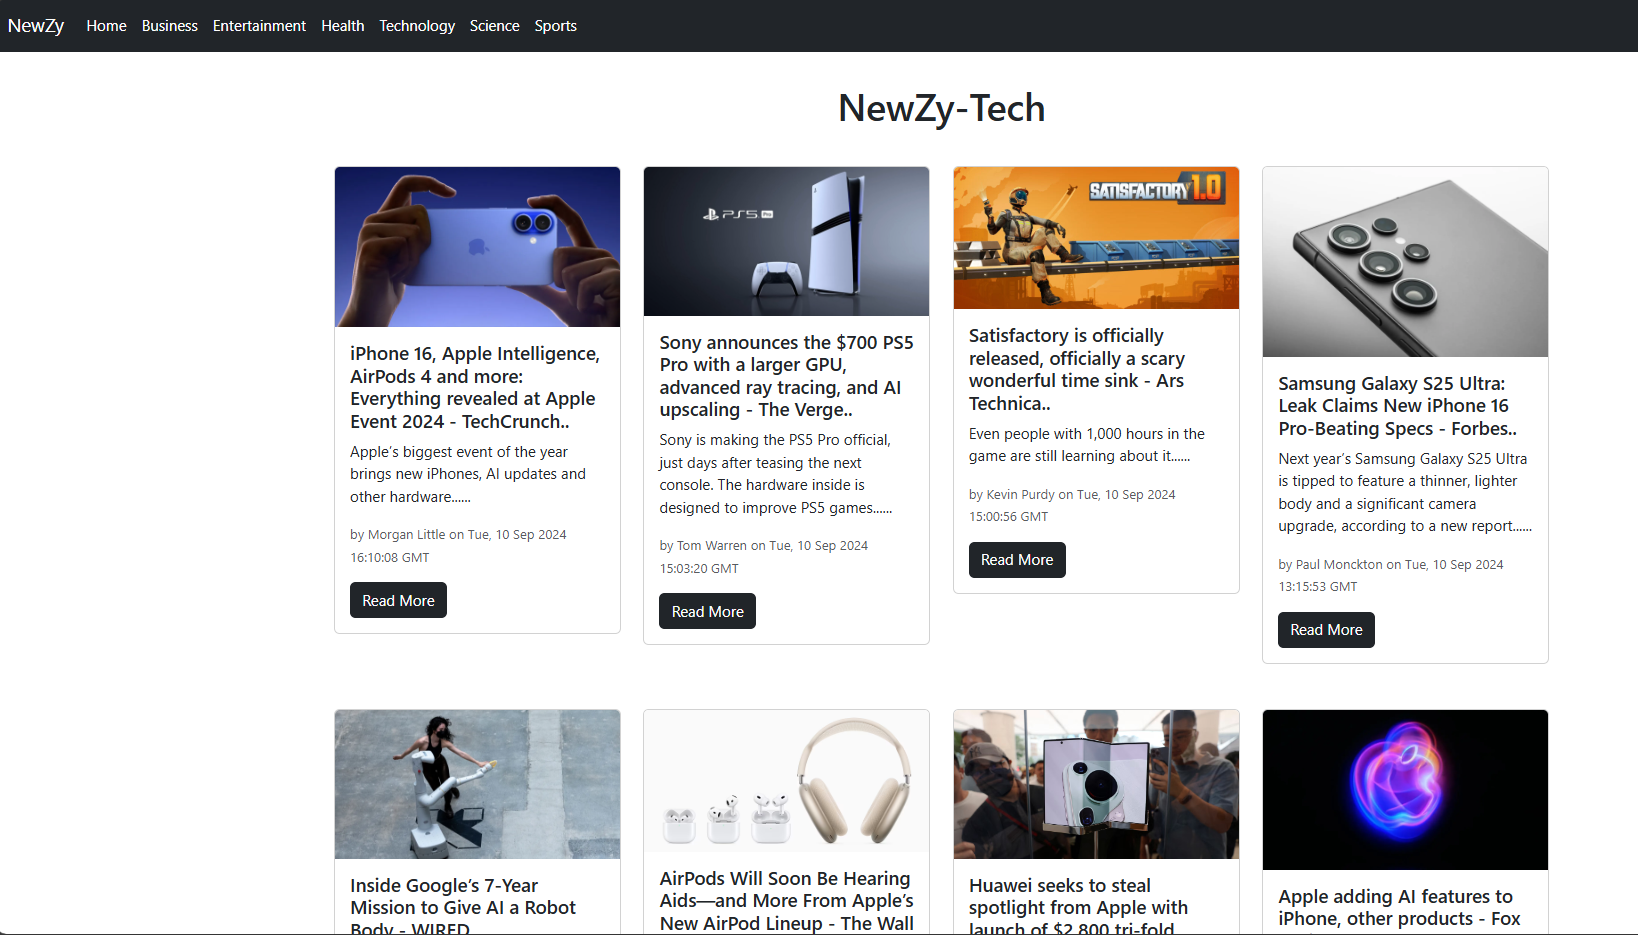
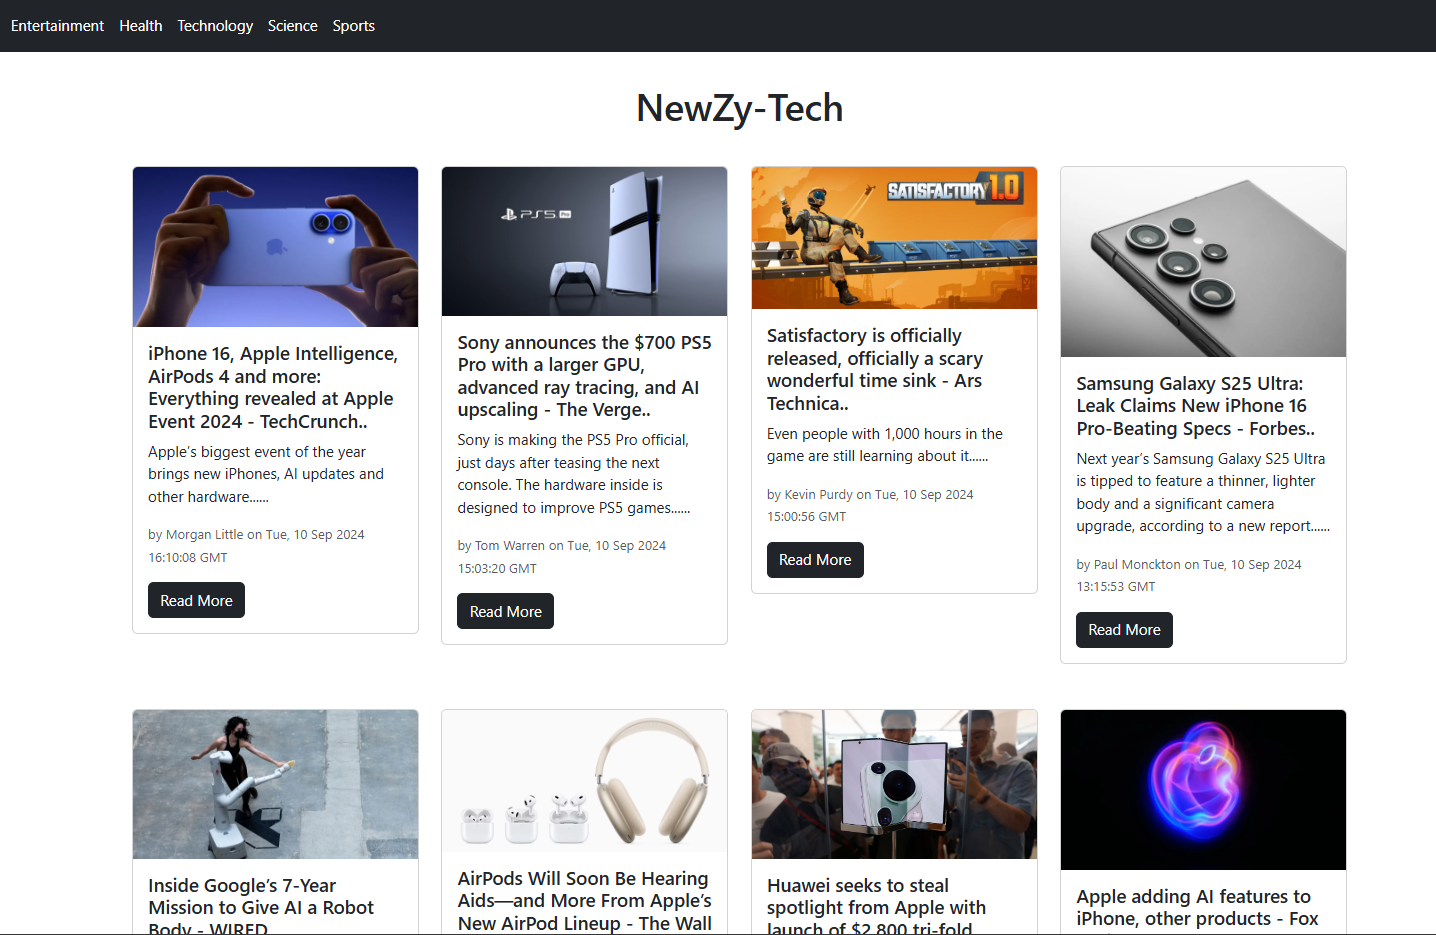
almost final commit

diff --git a/src/data/projectData.js b/src/data/projectData.js
@@ -1,0 +1,88 @@
+import { FaHtml5, FaCss3Alt, FaJsSquare, FaReact, FaNodeJs, FaGitAlt, FaDocker, FaJava , FaOauth} from 'react-icons/fa';
+import {
+    SiTypescript, SiRedux, SiTailwindcss, SiMongodb, SiPostgresql, SiNextdotjs, SiExpress, SiFramer, SiAndroidstudio,
+    SiPython, SiCplusplus, SiFirebase, SiReact, SiChakraui , SiAuth0 , SiRecoil , SiShadcnui
+} from 'react-icons/si';
+import { TbFileTypeXml } from "react-icons/tb";
+
+const react = (<FaReact color="#61DAFB" size={40} />)
+const node = (<FaNodeJs color="#339933" size={40} />);
+const express = (<SiExpress color="#ffffff" size={40} className="bg-black p-1 rounded" />);
+const mongo = <SiMongodb color="#47A248" size={40} /> 
+const typescript = <SiTypescript color="#3178C6" size={40} />
+const auth0 = (<SiAuth0 size={40} color="#EB5424" />)
+const shadcn = <SiShadcnui color="#8B5CF6" size={37} />
+const javaScript = <FaJsSquare color="#F7DF1E" size={40} />
+const recoil = <SiRecoil color="#ffffff" size={40} className="bg-black p-1 rounded" />
+const nextjs = <SiNextdotjs color="#ffffff" size={40} className="bg-black p-1 rounded" />
+const tailwind = <SiTailwindcss color="#38B2AC" size={40} />
+const framer = <SiFramer size={38} color='red'/>
+const css = <FaCss3Alt color="#1572B6" size={40} />
+const java = <FaJava color="#007396" size={40} />
+const androidStudio = <SiAndroidstudio color="#3DDC84" size={40} />
+const html = <FaHtml5 color="#E34F26" size={40} />
+const xml = <TbFileTypeXml size={40} color="#3DDC84" />
+
+export const projectsData = [
+    {
+      id: 1,
+      title: "Quick Bites",
+      description: "A full stack Food ordering platform , with proper authentication , restaurant page module for restaurant owners , and food ordering module for customers",
+      image: "/images/projects/quickbites.png",
+      tag: ["All", "Web"],
+      gitUrl: "https://github.com/AhsanShahzad5/Quick-Bites-Frontend",
+      previewUrl: "https://quick-bites-frontend-za1k.onrender.com/",
+      techStack:[typescript,react,shadcn,express,mongo,node]
+    },
+    {
+      id: 2,
+      title: "Social Link",
+      description: "A full stack social media website , having proper authetnication , posts and profiles features , with real time messaging features included",
+      image: "/images/projects/socialLink3.png",
+      tag: ["All", "Web"],
+      gitUrl: "https://github.com/AhsanShahzad5/Social-Link",
+      previewUrl: "https://social-link-iz2i.onrender.com/",
+     techStack:[javaScript,react,recoil,express,mongo,node]
+    
+    },
+    {
+      id: 3,
+      title: "Next-Js Developer Protfolio",
+      description: "My developer portfolio showing my projects , and expertise in various technologies",
+      image: "/images/projects/portfolio2.png",
+      tag: ["All", "Web"],
+      gitUrl: "https://github.com/AhsanShahzad5/my-portfolio-final",
+      previewUrl: "/",
+      techStack:[typescript,nextjs, tailwind , framer]
+    },
+    {
+      id: 4,
+      title: "Newzy",
+      description: "A News fetching website built using news API featuring news for tech , politics etc ",
+      image: "/images/projects/newzy.png",
+      tag: ["All", "Web"],
+      gitUrl: "https://github.com/AhsanShahzad5/Newzy",
+      previewUrl: "",
+      techStack:[html,javaScript,react,tailwind]
+    },
+    {
+      id: 5,
+      title: "NextJs Admin Dashboard + Blog",
+      description: "A full stack web app having combined power of Admin dashboard and Blogging websites",
+      image: "/images/projects/dashboard.png",
+      tag: ["All", "Web"],
+      gitUrl: "https://github.com/AhsanShahzad5/nextjs-simple-dashboard",
+      previewUrl: "/",
+      techStack:[javaScript,nextjs,tailwind,css]
+    },
+    {
+      id: 6,
+      title: "Android Fitness App",
+      description: "A basic fitness App built for android , having wokrout , diet and tracking modules",
+      image: "/images/projects/gym2.jpg",
+      tag: ["All", "Mobile"],
+      gitUrl: "https://github.com/AhsanShahzad5/MyFitness",
+      previewUrl: "/",
+      techStack:[java , androidStudio , css , xml]
+    },
+  ];

diff --git a/src/components/ProjectCard.jsx b/src/components/ProjectCard.jsx
@@ -1,35 +1,62 @@
-//previous prject card
-import React from "react";
+import React, { useState } from "react";
 import { CodeBracketIcon, EyeIcon } from "@heroicons/react/24/outline";
-import Link from "next/link";
 
-const ProjectCard = ({ imgUrl, title, description, gitUrl, previewUrl }) => {
+const ProjectCard = ({ imgUrl, title, description, gitUrl, previewUrl, techStack }) => {
+  const [showToast, setShowToast] = useState(false);
+
+  // Function to handle preview button click
+  const handlePreviewClick = () => {
+    if (!previewUrl || previewUrl === "/") {
+      // Show the toast and hide it after 3 seconds
+      setShowToast(true);
+      setTimeout(() => setShowToast(false), 2000);
+    } else {
+      // Open the preview URL in a new tab if available
+      window.open(previewUrl, "_blank");
+    }
+  };
+
   return (
-    <div>
+    <div className="relative">
+      {/* Toast Message */}
+      {showToast && (
+        <div className="absolute top-2 left-1/2 transform -translate-x-1/2 bg-white text-black px-4 py-2 rounded-md shadow-md z-10">
+          Not live yet!
+        </div>
+      )}
+
+      {/* Image background with overlay */}
       <div
-        className="h-52 md:h-72 rounded-t-xl relative group"
+        className="h-62 md:h-80 rounded-t-xl relative group"
         style={{ background: `url(${imgUrl})`, backgroundSize: "cover" }}
       >
-        <div className="overlay items-center justify-center absolute top-0 left-0 w-full h-full bg-[#181818] bg-opacity-0 hidden group-hover:flex group-hover:bg-opacity-80 transition-all duration-500 ">
+        <div className="overlay items-center justify-center absolute top-0 left-0 w-full h-full bg-[#181818] bg-opacity-0 hidden group-hover:flex group-hover:bg-opacity-80 transition-all duration-500">
           <a
             target="_blank"
             href={gitUrl}
             className="h-14 w-14 mr-2 border-2 relative rounded-full border-[#ADB7BE] hover:border-white group/link"
           >
-            <CodeBracketIcon className="h-10 w-10 text-[#ADB7BE] absolute top-1/2 left-1/2 transform -translate-x-1/2 -translate-y-1/2  cursor-pointer group-hover/link:text-white" />
+            <CodeBracketIcon className="h-10 w-10 text-[#ADB7BE] absolute top-1/2 left-1/2 transform -translate-x-1/2 -translate-y-1/2 cursor-pointer group-hover/link:text-white" />
           </a>
-          <a
-            target="_blank"
-            href={previewUrl}
+          <button
+            onClick={handlePreviewClick}
             className="h-14 w-14 border-2 relative rounded-full border-[#ADB7BE] hover:border-white group/link"
           >
-            <EyeIcon className="h-10 w-10 text-[#ADB7BE] absolute top-1/2 left-1/2 transform -translate-x-1/2 -translate-y-1/2  cursor-pointer group-hover/link:text-white" />
-          </a>
+            <EyeIcon className="h-10 w-10 text-[#ADB7BE] absolute top-1/2 left-1/2 transform -translate-x-1/2 -translate-y-1/2 cursor-pointer group-hover/link:text-white" />
+          </button>
         </div>
       </div>
-      <div className="text-white rounded-b-xl mt-3 bg-[#181818]py-6 px-4">
+      <div className="text-white rounded-b-xl mt-3 bg-[#181818] py-6 px-4 
+      /*md:h-80 lg:h-40/*
+      ">
+      <div className="md:h-[11rem] lg:h-[9rem]">
         <h5 className="text-xl font-semibold mb-2">{title}</h5>
-        <p className="text-[#ADB7BE]">{description}</p>
+        <p className="text-[#ADB7BE] mb-3">{description}</p>
+      </div>
+        <div
+          className="flex items-center gap-2 transition duration-300   flex-wrap hover:border-2 hover:border-primary-500 hover:rounded-lg text-center" >
+          {techStack}
+        </div>
       </div>
     </div>
   );

diff --git a/src/components/ProjectsSection.jsx b/src/components/ProjectsSection.jsx
@@ -3,63 +3,8 @@ import React, { useState, useRef } from "react";
 import ProjectCard from "./ProjectCard";
 import ProjectTag from "./ProjectTag";
 import { motion, useInView } from "framer-motion";
+import { projectsData } from "@/data/projectData";
 
-const projectsData = [
-  {
-    id: 1,
-    title: "Quick Bites",
-    description: "Project 1 description",
-    image: "/images/projects/quickbites.png",
-    tag: ["All", "Web"],
-    gitUrl: "https://github.com/AhsanShahzad5/Quick-Bites-Frontend",
-    previewUrl: "https://quick-bites-frontend-za1k.onrender.com/",
-  },
-  {
-    id: 2,
-    title: "Social Link",
-    description: "Project 2 description",
-    image: "/images/projects/socialLink3.png",
-    tag: ["All", "Web"],
-    gitUrl: "https://github.com/AhsanShahzad5/Social-Link",
-    previewUrl: "https://social-link-iz2i.onrender.com/",
-  },
-  {
-    id: 3,
-    title: "Next-Js Developer Protfolio",
-    description: "Project 3 description",
-    image: "/images/projects/portfolio2.png",
-    tag: ["All", "Web"],
-    gitUrl: "https://github.com/AhsanShahzad5/my-portfolio-final",
-    previewUrl: "/",
-  },
-  {
-    id: 4,
-    title: "Newzy",
-    description: "Project 4 description",
-    image: "/images/projects/newzy.png",
-    tag: ["All", "Mobile"],
-    gitUrl: "https://github.com/AhsanShahzad5/Newzy",
-    previewUrl: "",
-  },
-  {
-    id: 5,
-    title: "React Firebase Template",
-    description: "Authentication and CRUD operations",
-    image: "/images/projects/5.png",
-    tag: ["All", "Web"],
-    gitUrl: "/",
-    previewUrl: "/",
-  },
-  {
-    id: 6,
-    title: "Full-stack Roadmap",
-    description: "Project 5 description",
-    image: "/images/projects/6.png",
-    tag: ["All", "Web"],
-    gitUrl: "/",
-    previewUrl: "/",
-  },
-];
 
 const ProjectsSection = () => {
   const [tag, setTag] = useState("All");
@@ -101,7 +46,7 @@ const ProjectsSection = () => {
           isSelected={tag === "Mobile"}
         />
       </div>
-      <ul ref={ref} className="grid md:grid-cols-3 gap-8 md:gap-12">
+      <ul ref={ref} className="grid md:grid-cols-2 lg:grid-cols-3 gap-8 md:gap-12">
         {filteredProjects.map((project, index) => (
           <motion.li
             key={index}
@@ -117,6 +62,7 @@ const ProjectsSection = () => {
               imgUrl={project.image}
               gitUrl={project.gitUrl}
               previewUrl={project.previewUrl}
+              techStack={project.techStack}
             />
           </motion.li>
         ))}

diff --git a/src/components/SkillsIcons.jsx b/src/components/SkillsIcons.jsx
@@ -4,8 +4,8 @@ import React from 'react';
 
 import { FaHtml5, FaCss3Alt, FaJsSquare, FaReact, FaNodeJs, FaGitAlt, FaDocker, FaJava } from 'react-icons/fa';
 import {
-    SiTypescript, SiRedux, SiTailwindcss, SiMongodb, SiPostgresql, SiNextdotjs, SiExpress, SiFramer, SiAndroidstudio,
-    SiPython, SiCplusplus, SiFirebase, SiReact, SiChakraui
+    SiTypescript, SiRedux, SiTailwindcss, SiMongodb, SiPostgresql, SiNextdotjs, SiExpress, SiFramer, SiAndroidstudio,  SiShadcnui,
+    SiPython, SiCplusplus, SiFirebase, SiReact, SiChakraui , SiRecoil
 } from 'react-icons/si';
 
 const skillsData = [
@@ -20,9 +20,9 @@ const skillsData = [
     { name: "Next.js", icon: <SiNextdotjs color="#ffffff" size={40} className="bg-black p-1 rounded" /> },
     { name: "Git", icon: <FaGitAlt color="#F05032" size={40} /> },
     { name: "Redux", icon: <SiRedux color="#764ABC" size={40} /> },
-    { name: "Recoil", icon: <SiFramer color="#ffffff" size={40} className="bg-black p-1 rounded" /> },
+    { name: "Recoil", icon: <SiRecoil color="#ffffff" size={40} className="bg-black p-1 rounded" /> },
     { name: "Tailwind", icon: <SiTailwindcss color="#38B2AC" size={40} /> },
-    { name: "ShadCn", icon: <SiFramer color="#8B5CF6" size={40} /> },
+    { name: "ShadCn", icon: <SiShadcnui color="#8B5CF6" size={40} /> },
     { name: "PostgreSQL", icon: <SiPostgresql color="#336791" size={40} /> },
     { name: "Docker", icon: <FaDocker color="#2496ED" size={40} /> },
     { name: "Java", icon: <FaJava color="#007396" size={40} /> },

diff --git a/src/components/EmailSection.jsx b/src/components/EmailSection.jsx
@@ -1,7 +1,7 @@
 "use client";
 import React, { useRef, useState } from "react";
-import GithubIcon from "../../../public/github-icon.svg";
-import LinkedinIcon from "../../../public/linkedin-icon.svg";
+import GithubIcon from "../../public/github-icon.svg";
+import LinkedinIcon from "../../public/linkedin-icon.svg";
 import Link from "next/link";
 import Image from "next/image";
 import emailjs from '@emailjs/browser';
